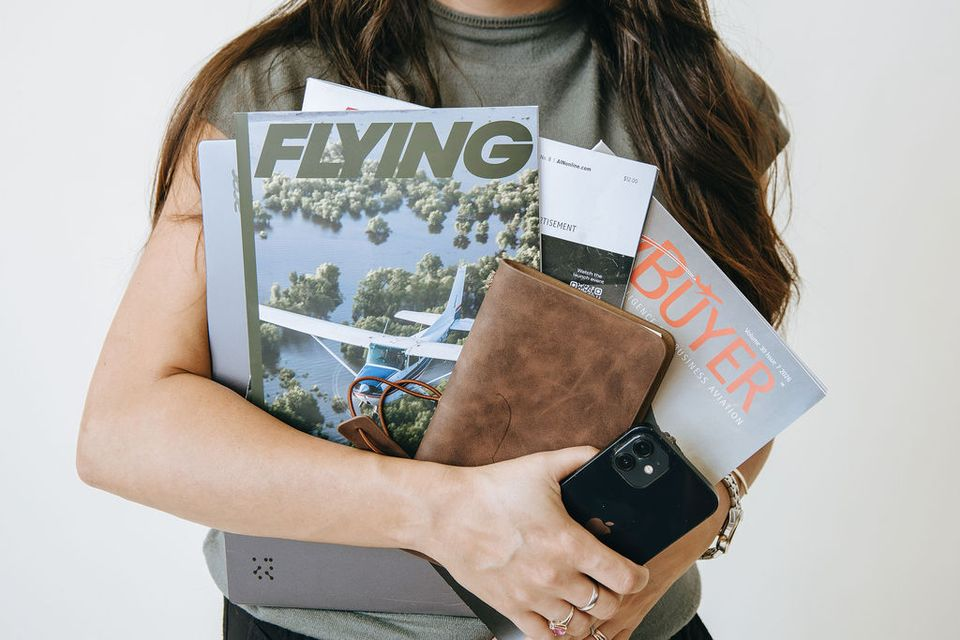
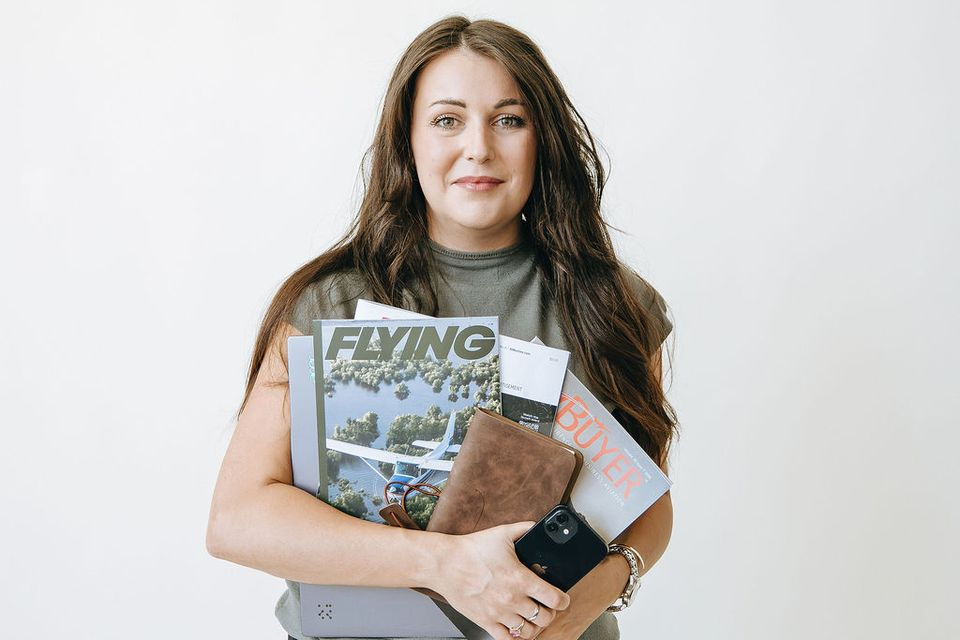
Use the full studio shot for the Audit header and card
Card shows Emily with the magazines; header crops in on the magazines.

Claude-Session: https://claude.ai/code/session_01HNQsGQurfHmio8ny6io8RU

diff --git a/site/resources.html b/site/resources.html
@@ -103,7 +103,7 @@
         </article>
         <article data-reveal="" style="display:flex;flex-direction:column;background:#FFFFFF;border:1px solid rgba(201,192,178,0.55);border-top:3px solid #6B2F2B;border-radius:2px;overflow:hidden;box-shadow:0 1px 2px rgba(33,34,31,0.04),0 8px 24px -12px rgba(33,34,31,0.16);transition:box-shadow 260ms cubic-bezier(0.16,1,0.3,1),transform 260ms cubic-bezier(0.16,1,0.3,1)" style-hover="box-shadow:0 2px 4px rgba(33,34,31,0.05),0 18px 40px -14px rgba(33,34,31,0.26);transform:translateY(-4px)">
           <div style="aspect-ratio:3/2;background:#EDE7DA">
-            <img src="assets/audit-card-web.jpg" alt="Arms full of aviation magazines, a planner, and a phone" loading="lazy" decoding="async" style="display:block;width:100%;height:100%;object-fit:cover">
+            <img src="assets/audit-card-web.jpg" alt="Emily smiling with an armful of aviation magazines, a planner, and a phone" loading="lazy" decoding="async" style="display:block;width:100%;height:100%;object-fit:cover">
           </div>
           <div style="flex:1;display:flex;flex-direction:column;gap:14px;padding:clamp(24px,2.6vw,32px)">
             <p style="margin:0;font:600 0.6875rem/1.5 'Montserrat',sans-serif;letter-spacing:0.18em;text-transform:uppercase;color:#6B2F2B">Self-Audit</p>
